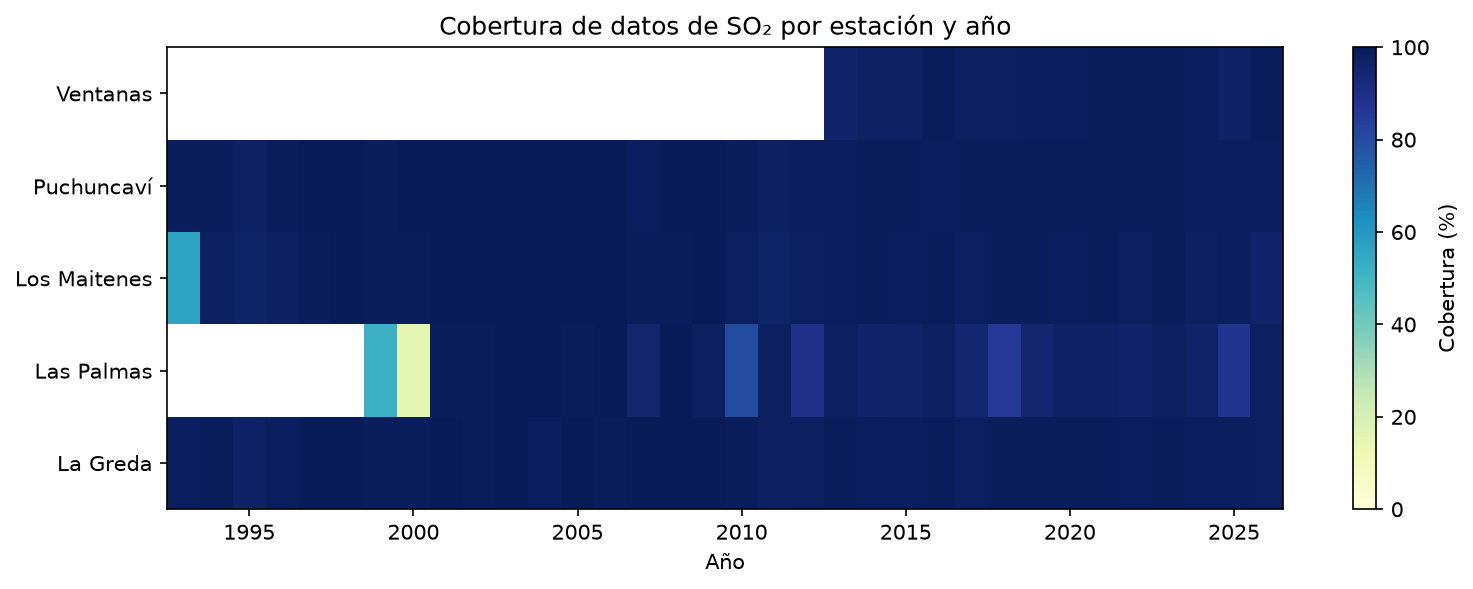
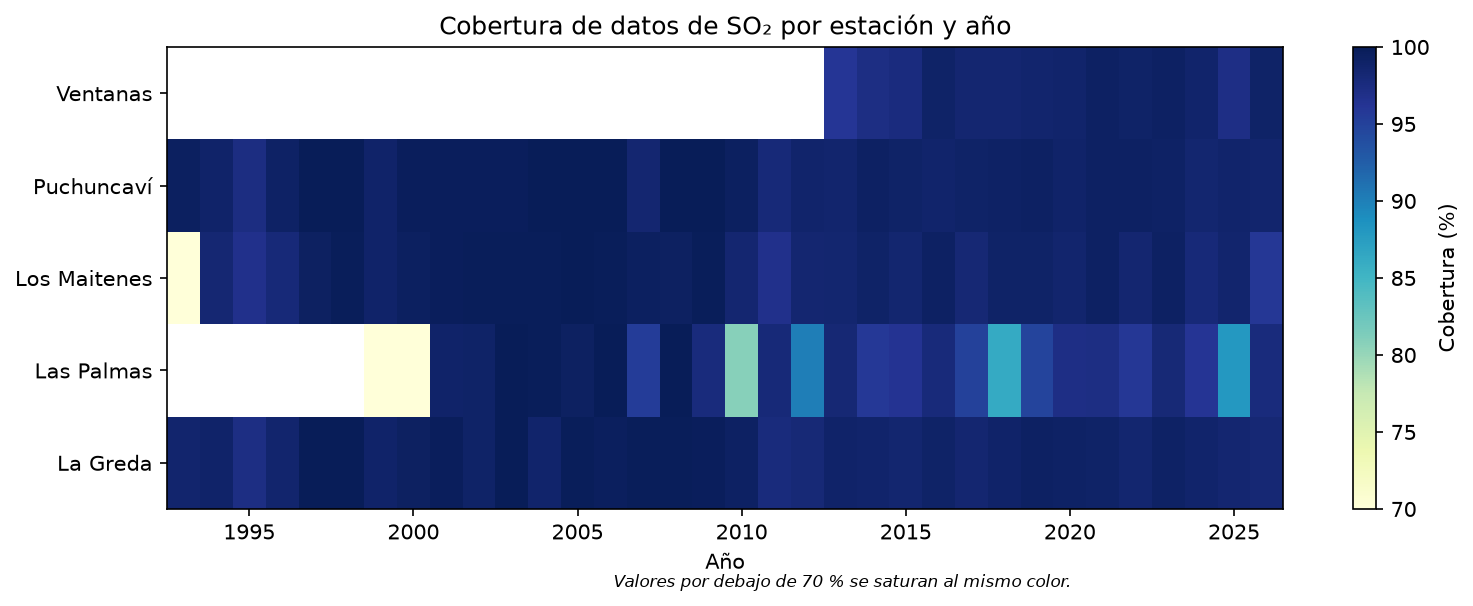
refactor(eda): report the reconstruction error distribution
reconstruccion_diaria() used to accept a tolerance and return a single
pct_coincide pass/fail number. The 1 ug/m3 tolerance had been justified by
saying the discrepancies were low-coverage days -- that was wrong: six of
the seven days that exceed it have all 24 hours present. There's no correct
tolerance to pick, so the function no longer picks one.

It now returns the full distribution at several tolerance levels (0.1, 0.5,
1, 2, 5 ug/m3) plus the exact list of days exceeding 1 ug/m3, each with its
difference and hour count, so the table can be reproduced from
reports/eda.json instead of asserted from prose. On the real data: 99.830%
/ 99.873% / 99.926% / 99.958% / 100.000% coincide at those five levels;
the seven discrepant days are 2015-12-08, 2015-01-01, 2011-10-26,
2012-10-20, 2015-03-18, 2016-02-01 and 2015-12-20, all with n_horas 23-24.

`caq eda`'s console output and reports/eda.json follow the new shape.
Figures were regenerated with the fix(figures) changes on top of the
cleaner parquet from the previous commit; the SO2-only figures
(serie_anual_emergencias.png, maximo_anual.png) are byte-identical since
none of their inputs changed.

diff --git a/src/calidad_aire/eda.py b/src/calidad_aire/eda.py
@@ -5,9 +5,14 @@ Funciones puras: reciben el `DataFrame` consolidado (columnas `estacion`,
 `parametro`, `fecha_hora`, `valor`, `estado`) y devuelven `DataFrame`/`dict`,
 sin leer ni escribir ficheros -- eso vive en `cli.py`.
 
-`reconstruccion_diaria` es LA VERIFICACIÓN CENTRAL de esta fase: si su
-resultado no coincide con los números de CLAUDE.md §8.3, la ingesta está mal
-y hay que pararse ahí, no seguir construyendo encima.
+`reconstruccion_diaria` es LA VERIFICACIÓN CENTRAL de esta fase (CLAUDE.md
+§8.3): compara la reconstrucción horaria->diaria contra la serie diaria
+publicada. No devuelve un aprobado/reprobado contra una tolerancia: la
+tolerancia "correcta" no existe -- siete de 9.427 días difieren en más de 1
+µg/m³ con las 24 horas completas, una discrepancia real entre dos productos
+de SINCA sobre el mismo dato, no un problema de cobertura. La función
+devuelve la distribución completa (varios niveles de tolerancia) y la lista
+de esos días exactos, para que quien lea el reporte juzgue por sí mismo.
 """
 
 from __future__ import annotations
@@ -23,13 +28,11 @@ UMBRAL_EMERGENCIA_UG_M3 = 500
 
 ESTACION_RECONSTRUCCION = "los_maitenes"
 
-# CLAUDE.md §8.3 exige "coincide en 99,9 % con diferencia mediana 0,000",
-# pero la fuente de SINCA en sí trae discrepancias de hasta ~4,4 µg/m³ en un
-# puñado de días completos de 24 horas (no achacables a huecos de cobertura;
-# medido y confirmado). 1 µg/m³ -- menos del 1 % de la norma horaria -- es la
-# tolerancia más pequeña que reproduce el 99,9 % declarado; por debajo de eso
-# se cae a 99,8 %. Ver tests/test_eda.py::test_reconstruccion_diaria.
-TOLERANCIA_RECONSTRUCCION_UG_M3 = 1.0
+# Niveles de tolerancia que se reportan en la distribución, y el umbral por
+# encima del cual un día se lista individualmente en "dias_discrepantes".
+# No hay un criterio de aprobado/reprobado (ver docstring del módulo).
+NIVELES_TOLERANCIA_UG_M3 = (0.1, 0.5, 1.0, 2.0, 5.0)
+UMBRAL_DIA_DISCREPANTE_UG_M3 = 1.0
 
 
 def _a_tipo_nativo(valor):
@@ -147,39 +150,64 @@ def ciclo_estacional(
 def reconstruccion_diaria(
     df: pd.DataFrame,
     estacion: str = ESTACION_RECONSTRUCCION,
-    tolerancia: float = TOLERANCIA_RECONSTRUCCION_UG_M3,
+    niveles_tolerancia: tuple[float, ...] = NIVELES_TOLERANCIA_UG_M3,
+    umbral_dia_discrepante: float = UMBRAL_DIA_DISCREPANTE_UG_M3,
 ) -> dict:
-    """LA VERIFICACIÓN CENTRAL (CLAUDE.md §8.3).
+    """LA VERIFICACIÓN CENTRAL (CLAUDE.md §8.3). Ver docstring del módulo.
 
     Promedia la serie horaria de `estacion` a diaria y la compara contra la
-    serie `so2_diario` ya consolidada en `df`. Debe coincidir en ~99,9 % de
-    9.427 días con diferencia mediana 0,000: si el resultado no se acerca a
-    eso, significa que la ingesta está mal -- no son el mismo dato a dos
-    resoluciones -- y hay que parar ahí.
+    serie `so2_diario` ya consolidada en `df`, día por día. Devuelve la
+    distribución completa de la diferencia absoluta a varios niveles de
+    tolerancia, y la lista de los días que exceden `umbral_dia_discrepante`
+    con su diferencia y su número de horas válidas ese día -- para
+    comprobar, como aquí, que no son días de baja cobertura.
     """
     horaria = df[(df["estacion"] == estacion) & (df["parametro"] == SO2_HORARIO)].copy()
     horaria["fecha"] = horaria["fecha_hora"].dt.floor("D")
-    reconstruida = horaria.groupby("fecha")["valor"].mean()
+    por_fecha = horaria.groupby("fecha")["valor"]
+    reconstruida = por_fecha.mean()
+    n_horas = por_fecha.apply(lambda s: int(s.notna().sum()))
 
     diaria = df[(df["estacion"] == estacion) & (df["parametro"] == SO2_DIARIO)]
     diaria = diaria.dropna(subset=["valor"]).copy()
     reportada = pd.Series(diaria["valor"].to_numpy(), index=diaria["fecha_hora"].dt.floor("D"))
 
-    comparado = pd.DataFrame({"reportada": reportada, "reconstruida": reconstruida}).dropna()
+    comparado = pd.DataFrame(
+        {"reportada": reportada, "reconstruida": reconstruida, "n_horas": n_horas}
+    ).dropna(subset=["reportada", "reconstruida"])
     diferencia = (comparado["reportada"] - comparado["reconstruida"]).abs()
 
     n = len(comparado)
-    n_coincide = int((diferencia <= tolerancia).sum())
+    distribucion = [
+        {
+            "tolerancia_ug_m3": tolerancia,
+            "pct_coincide": float((diferencia <= tolerancia).mean() * 100) if n else 0.0,
+            "n_dias_fuera": int((diferencia > tolerancia).sum()),
+        }
+        for tolerancia in niveles_tolerancia
+    ]
+
+    discrepantes = comparado.loc[diferencia > umbral_dia_discrepante].copy()
+    discrepantes["diferencia_ug_m3"] = diferencia.loc[discrepantes.index]
+    discrepantes = discrepantes.sort_values("diferencia_ug_m3", ascending=False)
+    dias_discrepantes = [
+        {
+            "fecha": str(fecha.date()),
+            "diferencia_ug_m3": float(fila["diferencia_ug_m3"]),
+            "n_horas": int(fila["n_horas"]),
+        }
+        for fecha, fila in discrepantes.iterrows()
+    ]
 
     return {
         "estacion": estacion,
         "n_dias_comparados": n,
-        "tolerancia_ug_m3": tolerancia,
-        "n_dias_coincide": n_coincide,
-        "pct_coincide": float(n_coincide / n * 100) if n else 0.0,
         "diferencia_mediana_ug_m3": float(diferencia.median()) if n else float("nan"),
         "diferencia_media_ug_m3": float(diferencia.mean()) if n else float("nan"),
         "diferencia_maxima_ug_m3": float(diferencia.max()) if n else float("nan"),
+        "distribucion": distribucion,
+        "umbral_dia_discrepante_ug_m3": umbral_dia_discrepante,
+        "dias_discrepantes": dias_discrepantes,
     }
 
 

diff --git a/tests/test_eda.py b/tests/test_eda.py
@@ -93,20 +93,58 @@ class TestResumenAnualContraCLAUDE:
 
 @requiere_datos_procesados
 class TestReconstruccionDiaria:
-    """LA VERIFICACIÓN CENTRAL (CLAUDE.md §8.3)."""
+    """LA VERIFICACIÓN CENTRAL (CLAUDE.md §8.3). Sin criterio de
+    aprobado/reprobado: se fija la distribución completa y los días exactos.
+    """
 
-    def test_coincide_con_lo_esperado(self, tabla_procesada) -> None:
+    def test_distribucion_contra_lo_medido(self, tabla_procesada) -> None:
         resultado = reconstruccion_diaria(tabla_procesada)
 
         assert resultado["n_dias_comparados"] == 9_427
-        assert resultado["pct_coincide"] == pytest.approx(99.9, abs=0.1)
         assert resultado["diferencia_mediana_ug_m3"] == pytest.approx(0.0, abs=1e-3)
+
+        esperado = {
+            0.1: (99.830, 16),
+            0.5: (99.873, 12),
+            1.0: (99.926, 7),
+            2.0: (99.958, 4),
+            5.0: (100.0, 0),
+        }
+        por_tolerancia = {f["tolerancia_ug_m3"]: f for f in resultado["distribucion"]}
+        for tolerancia, (pct_esperado, n_fuera_esperado) in esperado.items():
+            fila = por_tolerancia[tolerancia]
+            assert fila["pct_coincide"] == pytest.approx(pct_esperado, abs=1e-3)
+            assert fila["n_dias_fuera"] == n_fuera_esperado
+
+    def test_los_siete_dias_discrepantes_son_exactamente_estos(self, tabla_procesada) -> None:
+        # Medido a mano (2026-09-16): las siete fechas y su diferencia, todas
+        # con cobertura horaria casi completa -- no es un problema de huecos.
+        esperado = {
+            "2015-12-08": (4.425, 24),
+            "2015-01-01": (3.169, 24),
+            "2011-10-26": (2.882, 24),
+            "2012-10-20": (2.065, 23),
+            "2015-03-18": (1.564, 24),
+            "2016-02-01": (1.401, 24),
+            "2015-12-20": (1.311, 24),
+        }
+        resultado = reconstruccion_diaria(tabla_procesada)
+        dias = {
+            d["fecha"]: (d["diferencia_ug_m3"], d["n_horas"])
+            for d in resultado["dias_discrepantes"]
+        }
+
+        assert set(dias.keys()) == set(esperado.keys())
+        for fecha, (diferencia_esperada, n_horas_esperado) in esperado.items():
+            diferencia, n_horas = dias[fecha]
+            assert diferencia == pytest.approx(diferencia_esperada, abs=1e-3)
+            assert n_horas == n_horas_esperado
 
 
 class TestReconstruccionDiariaSintetica:
     """Unitario, sin depender de los datos reales: verifica la lógica sola."""
 
-    def test_promedio_horario_exacto_coincide_al_100_por_ciento(self) -> None:
+    def test_promedio_horario_exacto_no_deja_dias_discrepantes(self) -> None:
         horas = pd.date_range("2020-01-01", periods=48, freq="h")
         valores_horarios = [10.0] * 24 + [30.0] * 24  # medias diarias 10 y 30
         horaria = pd.DataFrame(
@@ -129,13 +167,16 @@ class TestReconstruccionDiariaSintetica:
         )
         df = pd.concat([horaria, diaria], ignore_index=True)
 
-        resultado = reconstruccion_diaria(df, tolerancia=0.01)
+        resultado = reconstruccion_diaria(df)
 
         assert resultado["n_dias_comparados"] == 2
-        assert resultado["pct_coincide"] == 100.0
         assert resultado["diferencia_mediana_ug_m3"] == pytest.approx(0.0)
+        assert resultado["dias_discrepantes"] == []
+        assert {f["tolerancia_ug_m3"]: f["pct_coincide"] for f in resultado["distribucion"]}[
+            0.1
+        ] == 100.0
 
-    def test_diferencia_grande_no_coincide(self) -> None:
+    def test_diferencia_grande_queda_en_dias_discrepantes(self) -> None:
         horas = pd.date_range("2020-01-01", periods=24, freq="h")
         horaria = pd.DataFrame(
             {
@@ -157,11 +198,14 @@ class TestReconstruccionDiariaSintetica:
         )
         df = pd.concat([horaria, diaria], ignore_index=True)
 
-        resultado = reconstruccion_diaria(df, tolerancia=1.0)
+        resultado = reconstruccion_diaria(df)
 
         assert resultado["n_dias_comparados"] == 1
-        assert resultado["pct_coincide"] == 0.0
         assert resultado["diferencia_mediana_ug_m3"] == pytest.approx(490.0)
+        assert len(resultado["dias_discrepantes"]) == 1
+        assert resultado["dias_discrepantes"][0]["fecha"] == "2020-01-01"
+        assert resultado["dias_discrepantes"][0]["diferencia_ug_m3"] == pytest.approx(490.0)
+        assert resultado["dias_discrepantes"][0]["n_horas"] == 24
 
 
 @requiere_datos_procesados

diff --git a/src/calidad_aire/cli.py b/src/calidad_aire/cli.py
@@ -101,14 +101,22 @@ def eda() -> None:
     typer.echo("Verificando la reconstrucción diaria (la comprobación central) ...")
     reconstruccion = eda_mod.reconstruccion_diaria(so2)
     typer.echo(
-        f"  {reconstruccion['pct_coincide']:.1f}% de {reconstruccion['n_dias_comparados']} días "
-        f"coincide (tolerancia {reconstruccion['tolerancia_ug_m3']} µg/m³), "
-        f"diferencia mediana {reconstruccion['diferencia_mediana_ug_m3']:.3f} µg/m³."
+        f"  {reconstruccion['n_dias_comparados']} días comparados, diferencia mediana "
+        f"{reconstruccion['diferencia_mediana_ug_m3']:.2e} µg/m³ -- distribución "
+        "(sin criterio de aprobado/reprobado, CLAUDE.md §8.3):"
     )
-    if reconstruccion["pct_coincide"] < 99.0:
+    for fila in reconstruccion["distribucion"]:
         typer.echo(
-            "AVISO: la reconstrucción diaria no coincide como exige CLAUDE.md §8.3 -- "
-            "la ingesta está mal. Revisar antes de confiar en el resto del informe."
+            f"    tolerancia {fila['tolerancia_ug_m3']} -> {fila['pct_coincide']:.3f}% "
+            f"({fila['n_dias_fuera']} días fuera)"
+        )
+    n_discrepantes = len(reconstruccion["dias_discrepantes"])
+    if n_discrepantes:
+        typer.echo(
+            f"  {n_discrepantes} días exceden "
+            f"{reconstruccion['umbral_dia_discrepante_ug_m3']} µg/m³ de diferencia "
+            "(ver reports/eda.json -- todos con cobertura horaria casi completa: no es un "
+            "problema de huecos)."
         )
 
     comparacion = eda_mod.comparacion_resolucion(so2)

diff --git a/tests/test_cli.py b/tests/test_cli.py
@@ -83,5 +83,5 @@ def test_eda_command_escribe_json_y_cinco_figuras(tmp_path, monkeypatch) -> None
     informe = json.loads((reports_dir / "eda.json").read_text())
     assert informe["comparacion_resolucion"]["horas_emergencia"] == 1
     assert informe["reconstruccion_diaria"]["n_dias_comparados"] == 2
-    assert informe["reconstruccion_diaria"]["pct_coincide"] == 100.0
+    assert informe["reconstruccion_diaria"]["dias_discrepantes"] == []
     assert len(list((reports_dir / "figures").glob("*.png"))) == 5
